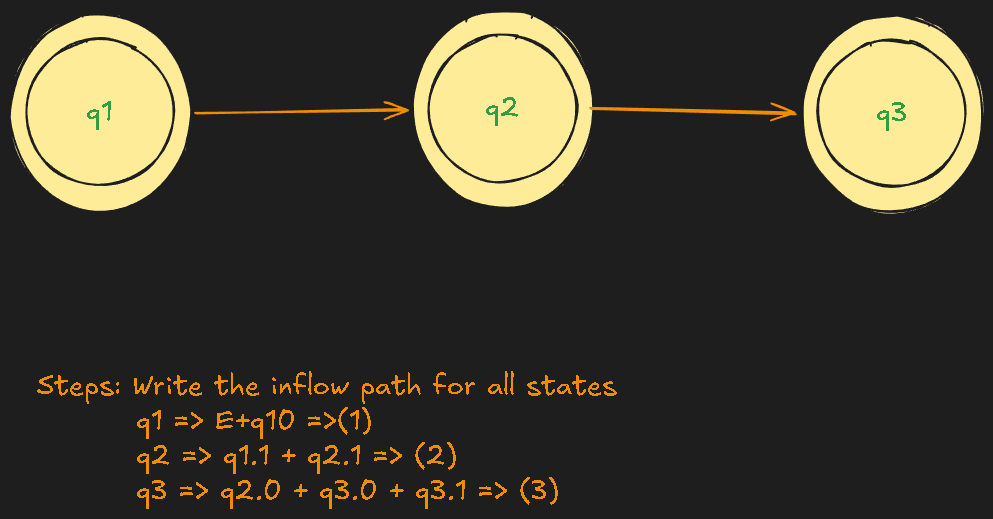
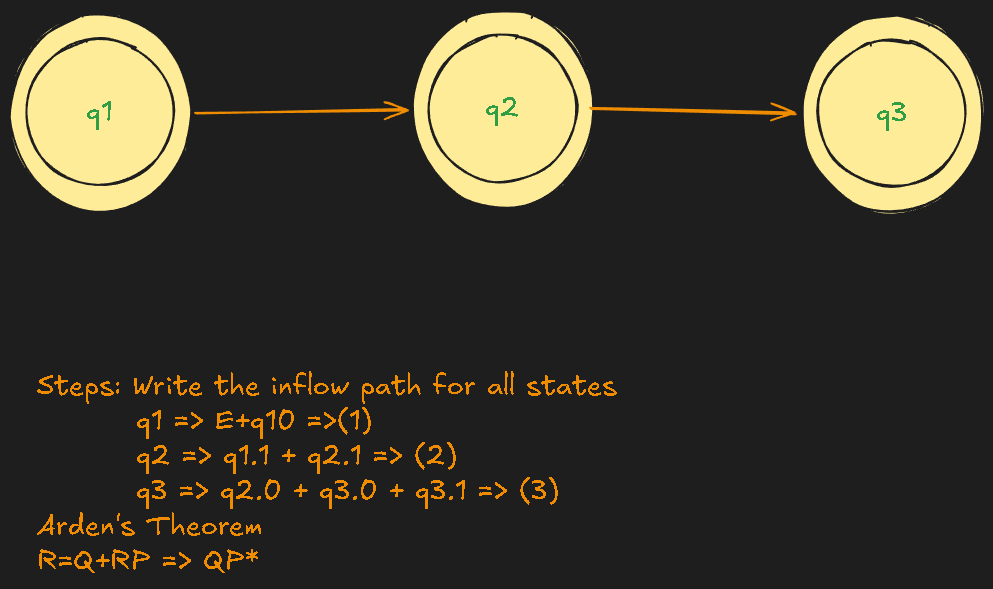
vault backup: 2026-09-01 08:18:02

diff --git a/Excalidraw/Drawing 2026-09-01 08.04.06.excalidraw.md b/Excalidraw/Drawing 2026-09-01 08.04.06.excalidraw.md
@@ -19,7 +19,9 @@ q3 ^v2vX2ytA
 Steps: Write the inflow path for all states
          q1 => E+q10 =>(1)
          q2 => q1.1 + q2.1 => (2)
-         q3 => q2.0 + q3.0 + q3.1 => (3) ^Ku48EscS
+         q3 => q2.0 + q3.0 + q3.1 => (3)
+Arden's Theorem
+R=Q+RP => QP* ^Ku48EscS
 
 %%
 ## Drawing
@@ -64,16 +66,18 @@ ZRHxFxMxDprRAPCojoWUBYqqAcO4sCFsIkCstyb5vybCWgEBrxJMMZYPL9JKnycLDKXYdjp4YqcqaqeR
 
[1 lines of base64/hex data omitted]
 
[2 lines of base64/hex data omitted]
 
[2 lines of base64/hex data omitted]
 
[2 lines of base64/hex data omitted]
 
[2 lines of base64/hex data omitted]
 
[2 lines of base64/hex data omitted]
 
[2 lines of base64/hex data omitted]
+
[1 lines of base64/hex data omitted]
 ```
 %%
